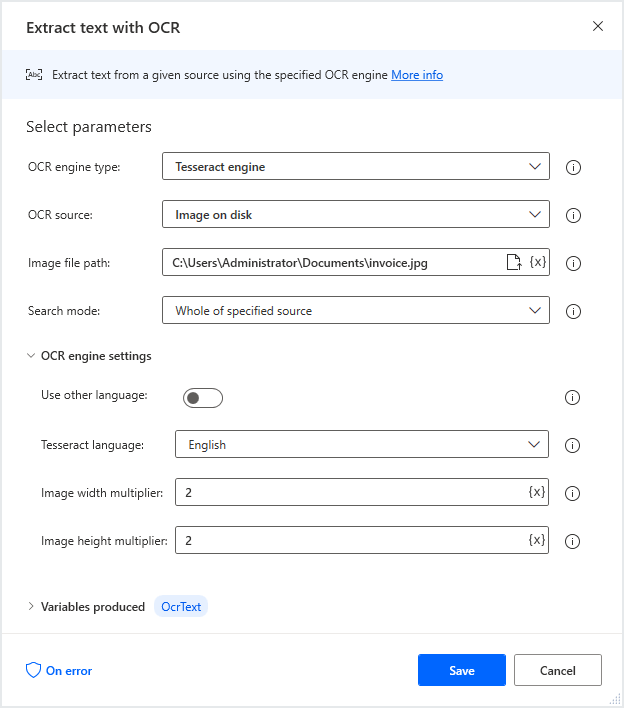
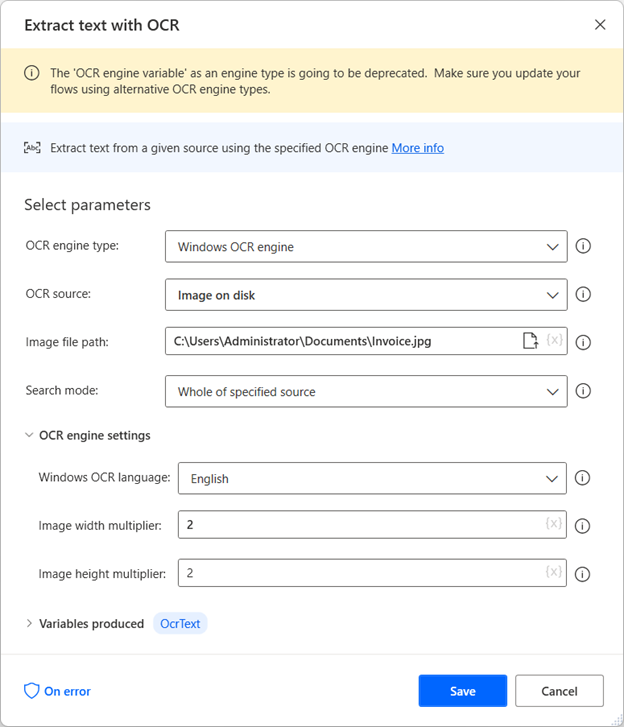
Updated OCR actions reference

diff --git a/articles/desktop-flows/actions-reference/ocr.md b/articles/desktop-flows/actions-reference/ocr.md
@@ -38,6 +38,8 @@ The action wherein the OCR engine is created contains the engine settings. These
 > [!WARNING]
 > Image multipliers increase the size of the image to make searching and text extraction more effective. Please note that setting values greater than 3 may lead to erroneous results.
 
+>[!NOTE]
+> To find information on how to extract text with OCR from multilingual documents, see [Perform OCR on multilingual documents](../how-to/ocr-multilingual-documents).
 
 ## OCR actions
 
@@ -48,7 +50,7 @@ Marks the beginning of a conditional block of actions depending on whether a giv
 |Argument|Optional|Accepts|Default Value|Description|
 |-----|-----|-----|-----|-----|
 |If text|N/A|Exists, Doesn't exist|Exists|Specifies whether to check if the text exists or not on the given source to analyze|
-|OCR engine type|No|OCR engine variable, Tesseract engine|OCR engine variable|The OCR engine type to use. Select a peconfigured OCR engine or set up a new one.|
+|OCR engine type|No|Windows OCR engine, Tesseract engine, OCR engine variable|OCR engine variable|The OCR engine type to use. Select a peconfigured OCR engine or set up a new one.|
 |OCR engine variable|No|OCREngineObject||The engine to use for the OCR operation|
 |Text to find|No|Text value||The text to search for in the specified source|
 |Is regular expression|N/A|Boolean value|False|Specifies whether to use a regular expression to find the specified text|
@@ -93,7 +95,7 @@ Wait until a specific text appears/disappears on the screen, on the foreground w
 |Argument|Optional|Accepts|Default Value|Description|
 |-----|-----|-----|-----|-----|
 |Wait for text to|N/A|Appear, Disappear|Appear|Specifies whether to wait for the text to appear or disappear|
-|OCR engine type|No|OCR engine variable, Tesseract engine|OCR engine variable|The OCR engine type to use. Select a peconfigured OCR engine or set up a new one.|
+|OCR engine type|No|Windows OCR engine, Tesseract engine, OCR engine variable|OCR engine variable|The OCR engine type to use. Select a peconfigured OCR engine or set up a new one.|
 |OCR engine variable|No|OCREngineObject||The engine to use for the OCR operation|
 |Text to find|No|Text value||The text to search for in the specified source|
 |Is regular expression|N/A|Boolean value|False|Specifies whether to use a regular expression to find the specified text|
@@ -207,7 +209,7 @@ Extract text from a given source using the given OCR engine
 ##### Input Parameters
 |Argument|Optional|Accepts|Default Value|Description|
 |-----|-----|-----|-----|-----|
-|OCR engine|No|OCR engine variable, Tesseract engine|OCR engine variable|The OCR engine type to use. Select a preconfigured OCR engine or set up a new one.|
+|OCR engine|No|Windows OCR engine, Tesseract engine, OCR engine variable|OCR engine variable|The OCR engine type to use. Select a preconfigured OCR engine or set up a new one.|
 |OCR engine variable|No|OCREngineObject||The engine to use for the OCR operation|
 |OCR source|N/A|Screen, Foreground window, Image on disk|Screen|The source of the image to perform the OCR operation on|
 |Image file path|No|File||The path of the image to perform the OCR operation on|
